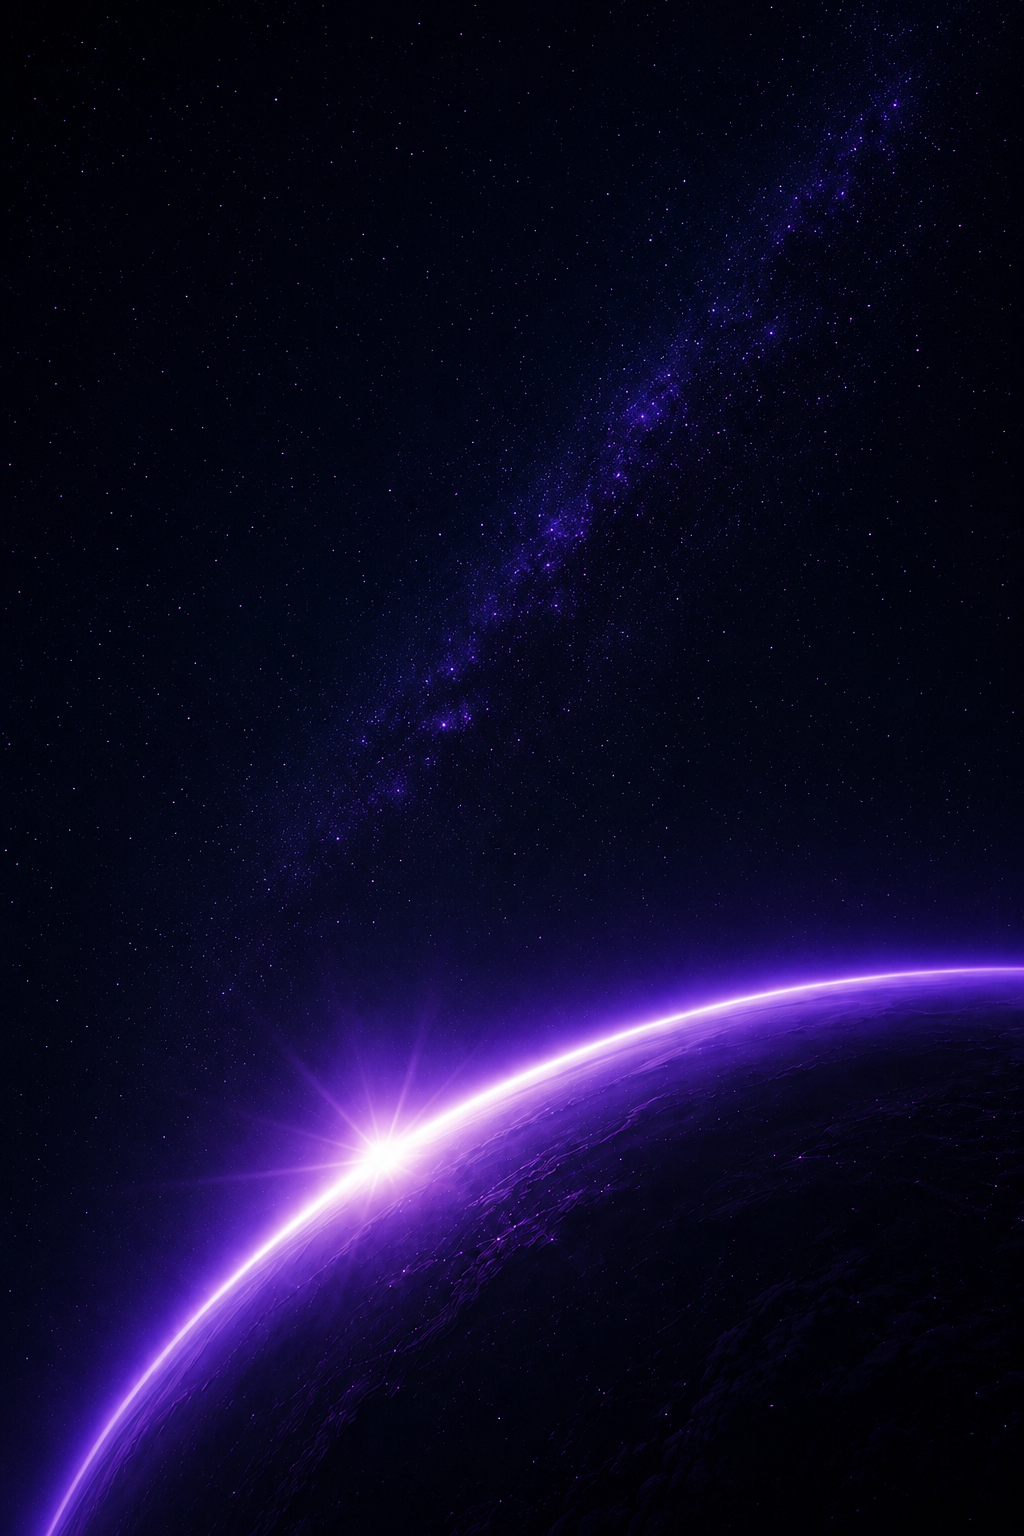
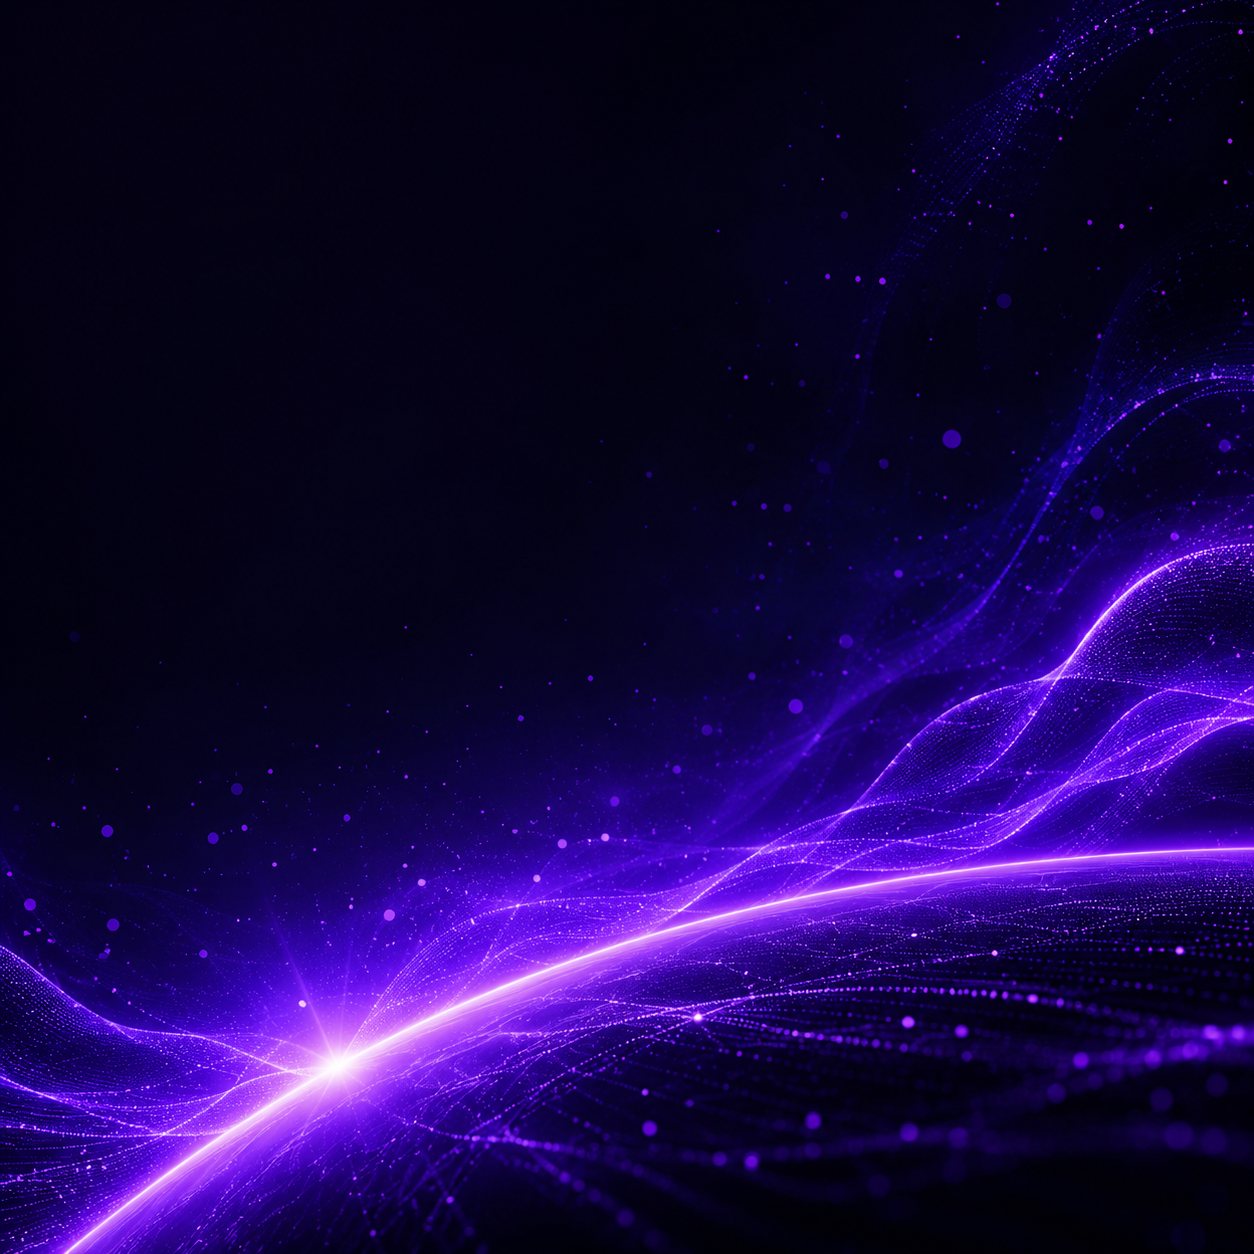
이미지 변경 & 모니터링 테이블 수정

diff --git a/src/index.css b/src/index.css
@@ -56,3 +56,29 @@ button:disabled {
   border-radius: 999px;
   background: rgba(255, 255, 255, 0.18);
 }
+
+.monitoring-detail-scroll {
+  scrollbar-width: thin;
+  scrollbar-gutter: stable;
+  scrollbar-color: #98a2d7 #f1f4ff;
+}
+
+.monitoring-detail-scroll::-webkit-scrollbar {
+  width: 10px;
+}
+
+.monitoring-detail-scroll::-webkit-scrollbar-track {
+  border-radius: 999px;
+  background: #f1f4ff;
+}
+
+.monitoring-detail-scroll::-webkit-scrollbar-thumb {
+  min-height: 32px;
+  border: 2px solid #f1f4ff;
+  border-radius: 999px;
+  background: #98a2d7;
+}
+
+.monitoring-detail-scroll::-webkit-scrollbar-thumb:hover {
+  background: #6a5ae0;
+}

diff --git a/src/pages/MonitoringPage/MonitoringPage.jsx b/src/pages/MonitoringPage/MonitoringPage.jsx
@@ -216,11 +216,11 @@ function DetailSummaryItem({ label, value, valueClassName = '' }) {
 
 function DetailPanel({ title, children }) {
   return (
-    <section className="min-h-[128px] px-5 py-5">
+    <section className="min-h-[128px] min-w-0 px-5 py-5">
       <div className="pb-4">
         <DetailSectionLabel>{title}</DetailSectionLabel>
       </div>
-      <div>{children}</div>
+      <div className="min-w-0">{children}</div>
     </section>
   );
 }
@@ -228,7 +228,7 @@ function DetailPanel({ title, children }) {
 function DetailPanelText({ children, subtle = false }) {
   return (
     <div
-      className={`text-[12.5px] leading-[1.7] whitespace-pre-line ${
+      className={`monitoring-detail-scroll max-h-[220px] min-w-0 overflow-y-auto rounded-md border border-[#EEF1FB] bg-[#FCFDFF] px-3 py-2 text-[12.5px] leading-[1.7] whitespace-pre-wrap break-words [overflow-wrap:anywhere] ${
         subtle ? 'text-[#5B6686]' : 'text-[#2F3A56]'
       }`.trim()}
     >
@@ -239,11 +239,11 @@ function DetailPanelText({ children, subtle = false }) {
 
 function DetailBulletList({ items }) {
   return (
-    <ul className="space-y-1.5 text-[12.5px] leading-[1.65] text-[#2F3A56]">
+    <ul className="monitoring-detail-scroll max-h-[220px] min-w-0 space-y-1.5 overflow-y-auto rounded-md border border-[#EEF1FB] bg-[#FCFDFF] px-3 py-2 text-[12.5px] leading-[1.65] text-[#2F3A56]">
       {items.map(item => (
-        <li key={item} className="flex gap-2">
-          <span className="mt-[7px] h-1 w-1 rounded-full bg-[#6A5AE0]" />
-          <span>{item}</span>
+        <li key={item} className="flex min-w-0 gap-2">
+          <span className="mt-[7px] h-1 w-1 shrink-0 rounded-full bg-[#6A5AE0]" />
+          <span className="min-w-0 break-words [overflow-wrap:anywhere]">{item}</span>
         </li>
       ))}
     </ul>
@@ -536,22 +536,22 @@ export function MonitoringLogView({
 
                   <section className="border-t border-[#E7EBF5] bg-white">
                     <div className="grid lg:grid-cols-2">
-                      <div className="border-b border-[#E7EBF5] lg:border-r lg:border-[#E7EBF5]">
+                      <div className="min-w-0 border-b border-[#E7EBF5] lg:border-r lg:border-[#E7EBF5]">
                         <DetailPanel title="원본 프롬프트">
                           <DetailPanelText>{row.promptDetail}</DetailPanelText>
                         </DetailPanel>
                       </div>
-                      <div className="border-b border-[#E7EBF5]">
+                      <div className="min-w-0 border-b border-[#E7EBF5]">
                         <DetailPanel title="답변">
                           <DetailPanelText>{detail.answerDetail}</DetailPanelText>
                         </DetailPanel>
                       </div>
-                      <div className="lg:border-r lg:border-[#E7EBF5]">
+                      <div className="min-w-0 lg:border-r lg:border-[#E7EBF5]">
                         <DetailPanel title="탐지 근거">
                           <DetailBulletList items={detail.evidenceLines} />
                         </DetailPanel>
                       </div>
-                      <div>
+                      <div className="min-w-0">
                         <DetailPanel title="조치 내용">
                           <DetailBulletList items={detail.actionLines} />
                         </DetailPanel>

diff --git a/src/pages/UserPage/UserPage.jsx b/src/pages/UserPage/UserPage.jsx
@@ -21,7 +21,7 @@ const initialUsers = [
     ip: '203.0.113.23',
     department: '기술팀',
     position: '시니어 엔지니어',
-    updatedAt: '2025-05-20 14:32',
+    createdAt: '2025-05-20 14:32',
   },
   {
     id: 2,
@@ -30,7 +30,7 @@ const initialUsers = [
     ip: '203.0.113.45',
     department: '보안팀',
     position: '보안 엔지니어',
-    updatedAt: '2025-05-21 09:15',
+    createdAt: '2025-05-21 09:15',
   },
   {
     id: 3,
@@ -39,7 +39,7 @@ const initialUsers = [
     ip: '198.51.100.77',
     department: '영업팀',
     position: '세일즈 매니저',
-    updatedAt: '2025-05-19 16:45',
+    createdAt: '2025-05-19 16:45',
   },
   {
     id: 4,
@@ -48,7 +48,7 @@ const initialUsers = [
     ip: '203.0.113.99',
     department: '기술팀',
     position: '백엔드 엔지니어',
-    updatedAt: '2025-05-18 11:07',
+    createdAt: '2025-05-18 11:07',
   },
   {
     id: 5,
@@ -57,7 +57,7 @@ const initialUsers = [
     ip: '192.0.2.58',
     department: '관리팀',
     position: '관리 매니저',
-    updatedAt: '2025-05-17 10:22',
+    createdAt: '2025-05-17 10:22',
   },
 ];
 
@@ -273,7 +273,7 @@ export default function UserPage() {
                     <th
                       className={`${monitoringTableHeaderCellClass} w-[18%] whitespace-nowrap px-3`}
                     >
-                      최종 수정일
+                      최초 등록일
                     </th>
                   </tr>
                 </thead>
@@ -329,7 +329,7 @@ export default function UserPage() {
                             <div className="truncate">{user.position}</div>
                           </td>
                           <td className={monitoringTableCellClass(index, 'whitespace-nowrap px-3')}>
-                            {user.updatedAt}
+                            {user.createdAt}
                           </td>
                         </tr>
                         {isSelected ? (

diff --git a/src/pages/DownloadPage/DownloadPage.jsx b/src/pages/DownloadPage/DownloadPage.jsx
@@ -171,15 +171,18 @@ export default function DownloadPage() {
       </header>
 
       <section
-        className="relative flex min-h-[25rem] items-center justify-center overflow-hidden bg-[#080B28] bg-cover bg-center px-6 text-white"
-        style={{ backgroundImage: `url(${garimMoonImage})` }}
+        className="relative flex min-h-[25rem] items-center justify-center overflow-hidden bg-[#080B28] bg-cover px-6 text-white"
+        style={{
+          backgroundImage: `url(${garimMoonImage})`,
+          backgroundPosition: 'center bottom',
+        }}
       >
-        <div className="absolute inset-0 bg-black/18" />
+        
         <div className="relative z-10 mx-auto max-w-[820px] text-center">
           <h1 className="text-[clamp(2.4rem,5vw,4.2rem)] font-bold leading-tight tracking-[-0.02em]">
             운영지원
           </h1>
-          <p className="mx-auto mt-6 max-w-[42rem] text-xl font-semibold leading-8 text-white/88">
+          <p className="mx-auto mt-6 max-w-[42rem] text-xl font-semibold leading-8 ">
             GARIM 적용에 필요한 압축 파일을 다운로드하고 실행 및 적용 방법을 확인해 주세요.
           </p>
           <button

diff --git a/src/pages/LoginPage/LoginPage.jsx b/src/pages/LoginPage/LoginPage.jsx
@@ -19,7 +19,7 @@ export default function LoginPage() {
             className="relative hidden min-h-screen overflow-hidden bg-[#080B28] bg-cover bg-center px-16 py-20 text-white lg:block 2xl:min-h-[44rem]"
             style={{ backgroundImage: `url(${loginBgImage})` }}
           >
-            <div className="absolute inset-0 bg-black/12" />
+            
             <div className="relative z-10 flex h-full flex-col justify-center">
               <div className="flex items-center gap-5">
                 <img src={logoIcon} alt="" className="h-20 w-20 rounded-2xl object-contain" />